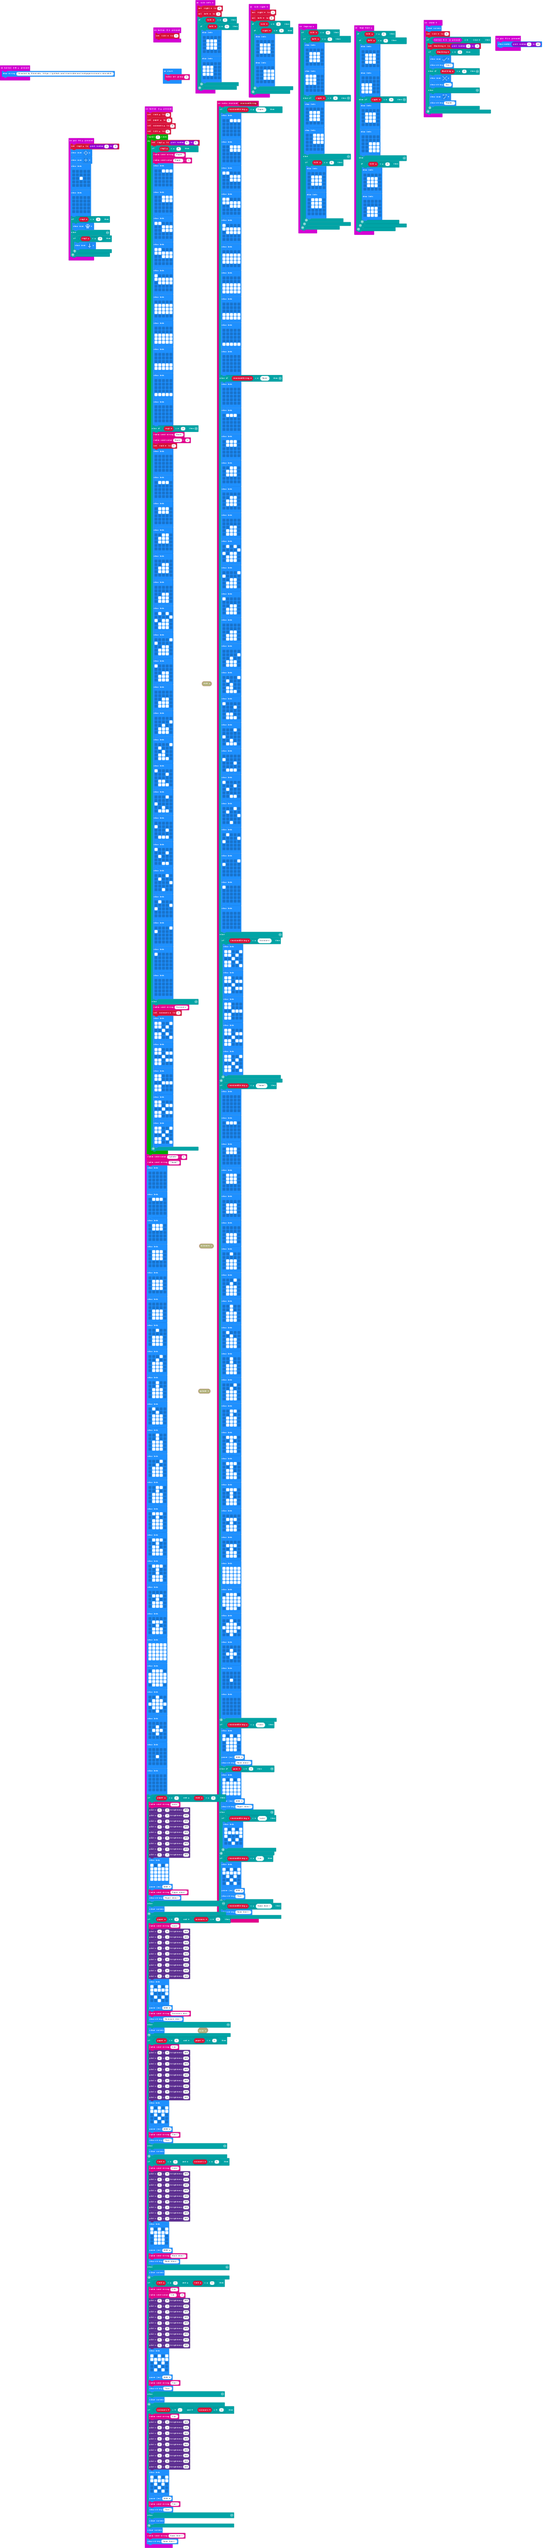
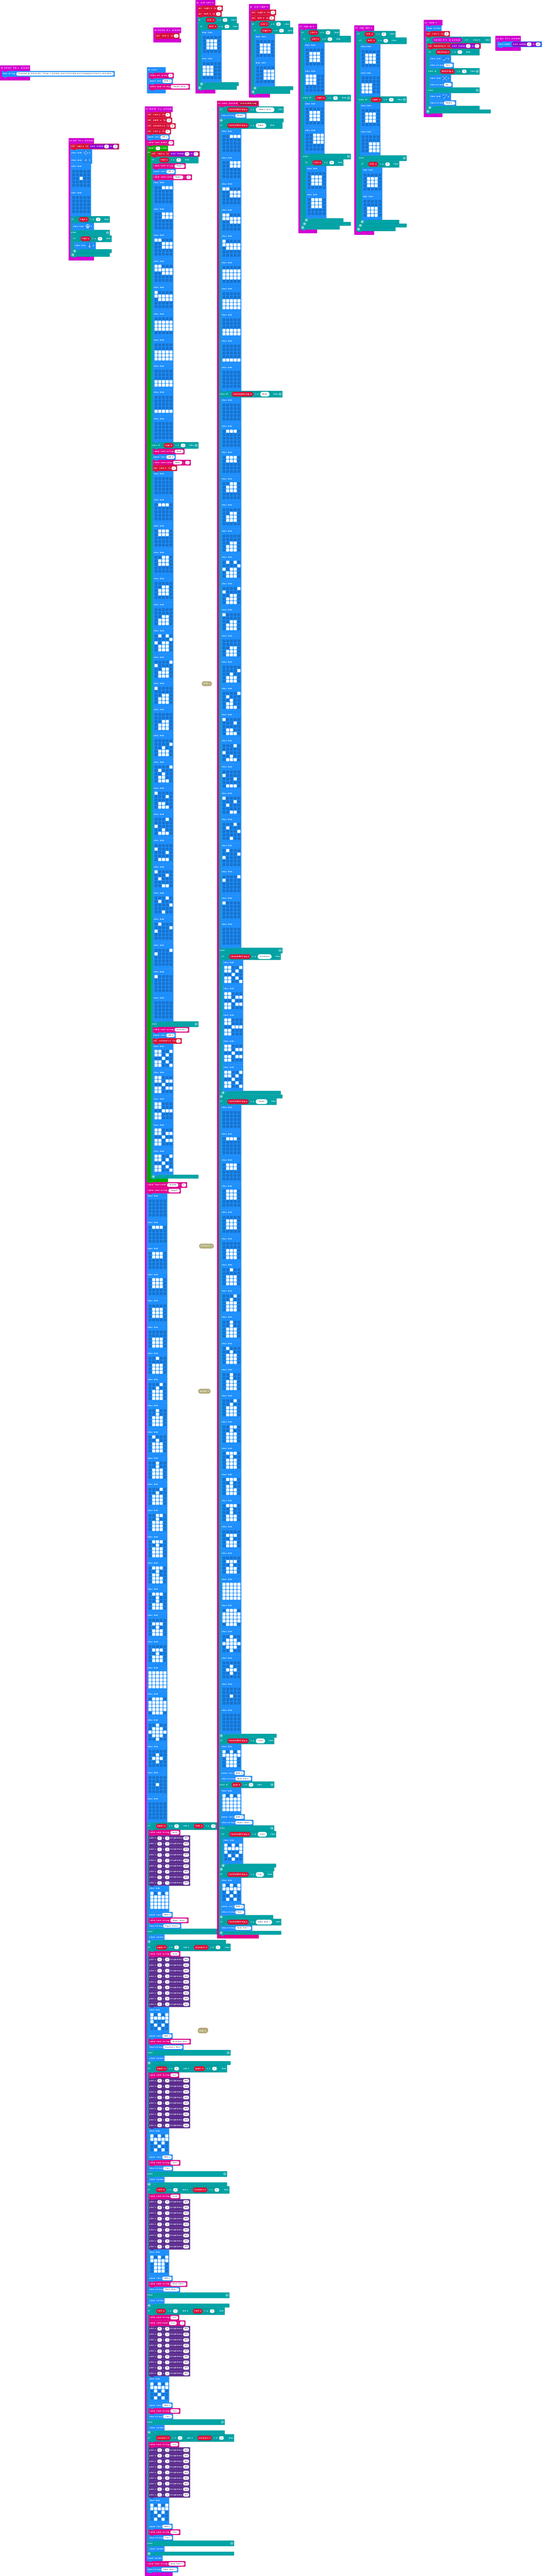
Refined Radio.

diff --git a/main.ts b/main.ts
@@ -29,10 +29,13 @@ input.onButtonPressed(Button.A, function () {
     paper = 0
     scissors = 0
     tilt = 0
+    basic.pause(100)
+    radio.sendNumber(2)
     for (let index = 0; index < 2; index++) {
         rng1 = randint(0, 2)
         if (rng1 == 0) {
             radio.sendString("Paper")
+            basic.pause(100)
             radio.sendValue("Paper", 1)
             basic.showLeds(`
                 . . # # #
@@ -106,6 +109,7 @@ input.onButtonPressed(Button.A, function () {
                 `)
         } else if (rng1 == 1) {
             radio.sendString("Rock")
+            basic.pause(100)
             radio.sendValue("Rock", 1)
             rock = 1
             basic.showLeds(`
@@ -257,6 +261,7 @@ input.onButtonPressed(Button.A, function () {
                 `)
         } else {
             radio.sendString("Scissors")
+            basic.pause(100)
             scissors = 1
             basic.showLeds(`
                 # # . . #
@@ -693,6 +698,9 @@ input.onButtonPressed(Button.AB, function () {
 })
 radio.onReceivedString(function (receivedString) {
     let pwin = 0
+    if (receivedString == "\"Radio Init.") {
+        basic.showString("Ready")
+    }
     if (receivedString == "Paper") {
         basic.showLeds(`
             . . # # #
@@ -1274,3 +1282,5 @@ let paper = 0
 let rock = 0
 let rng2 = 0
 radio.setGroup(1)
+basic.pause(2000)
+radio.sendString("\"Radio Init.")
